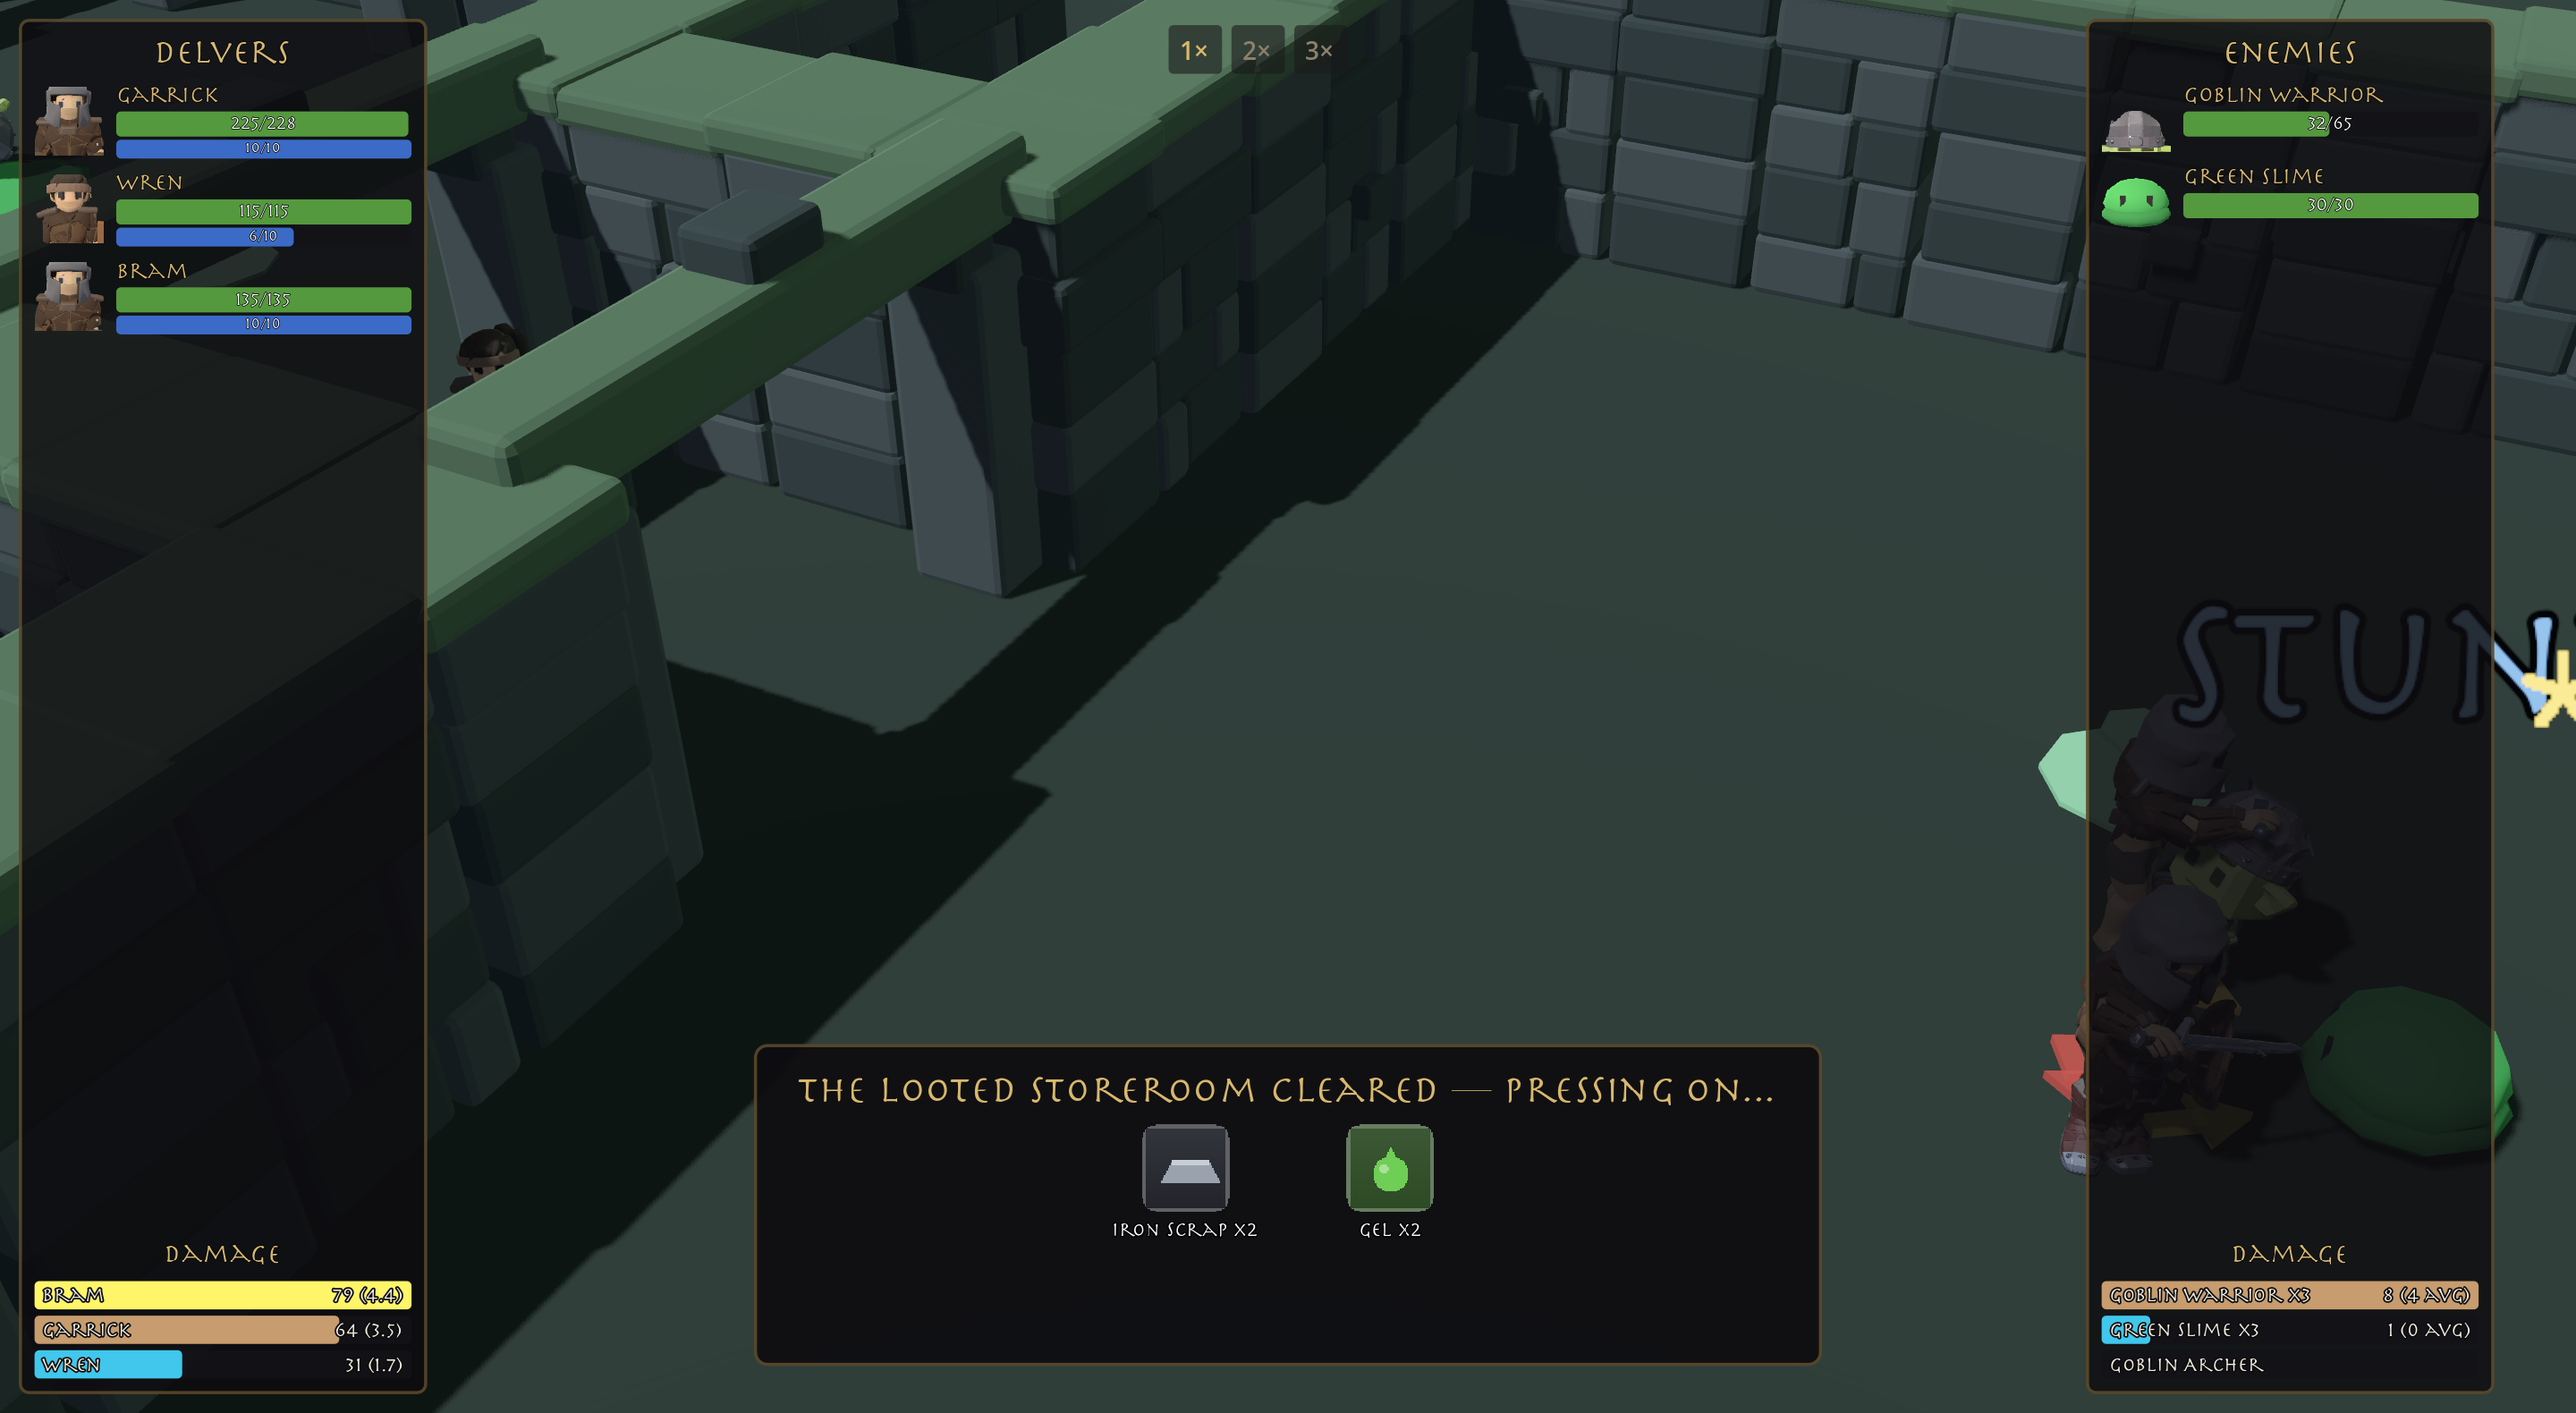
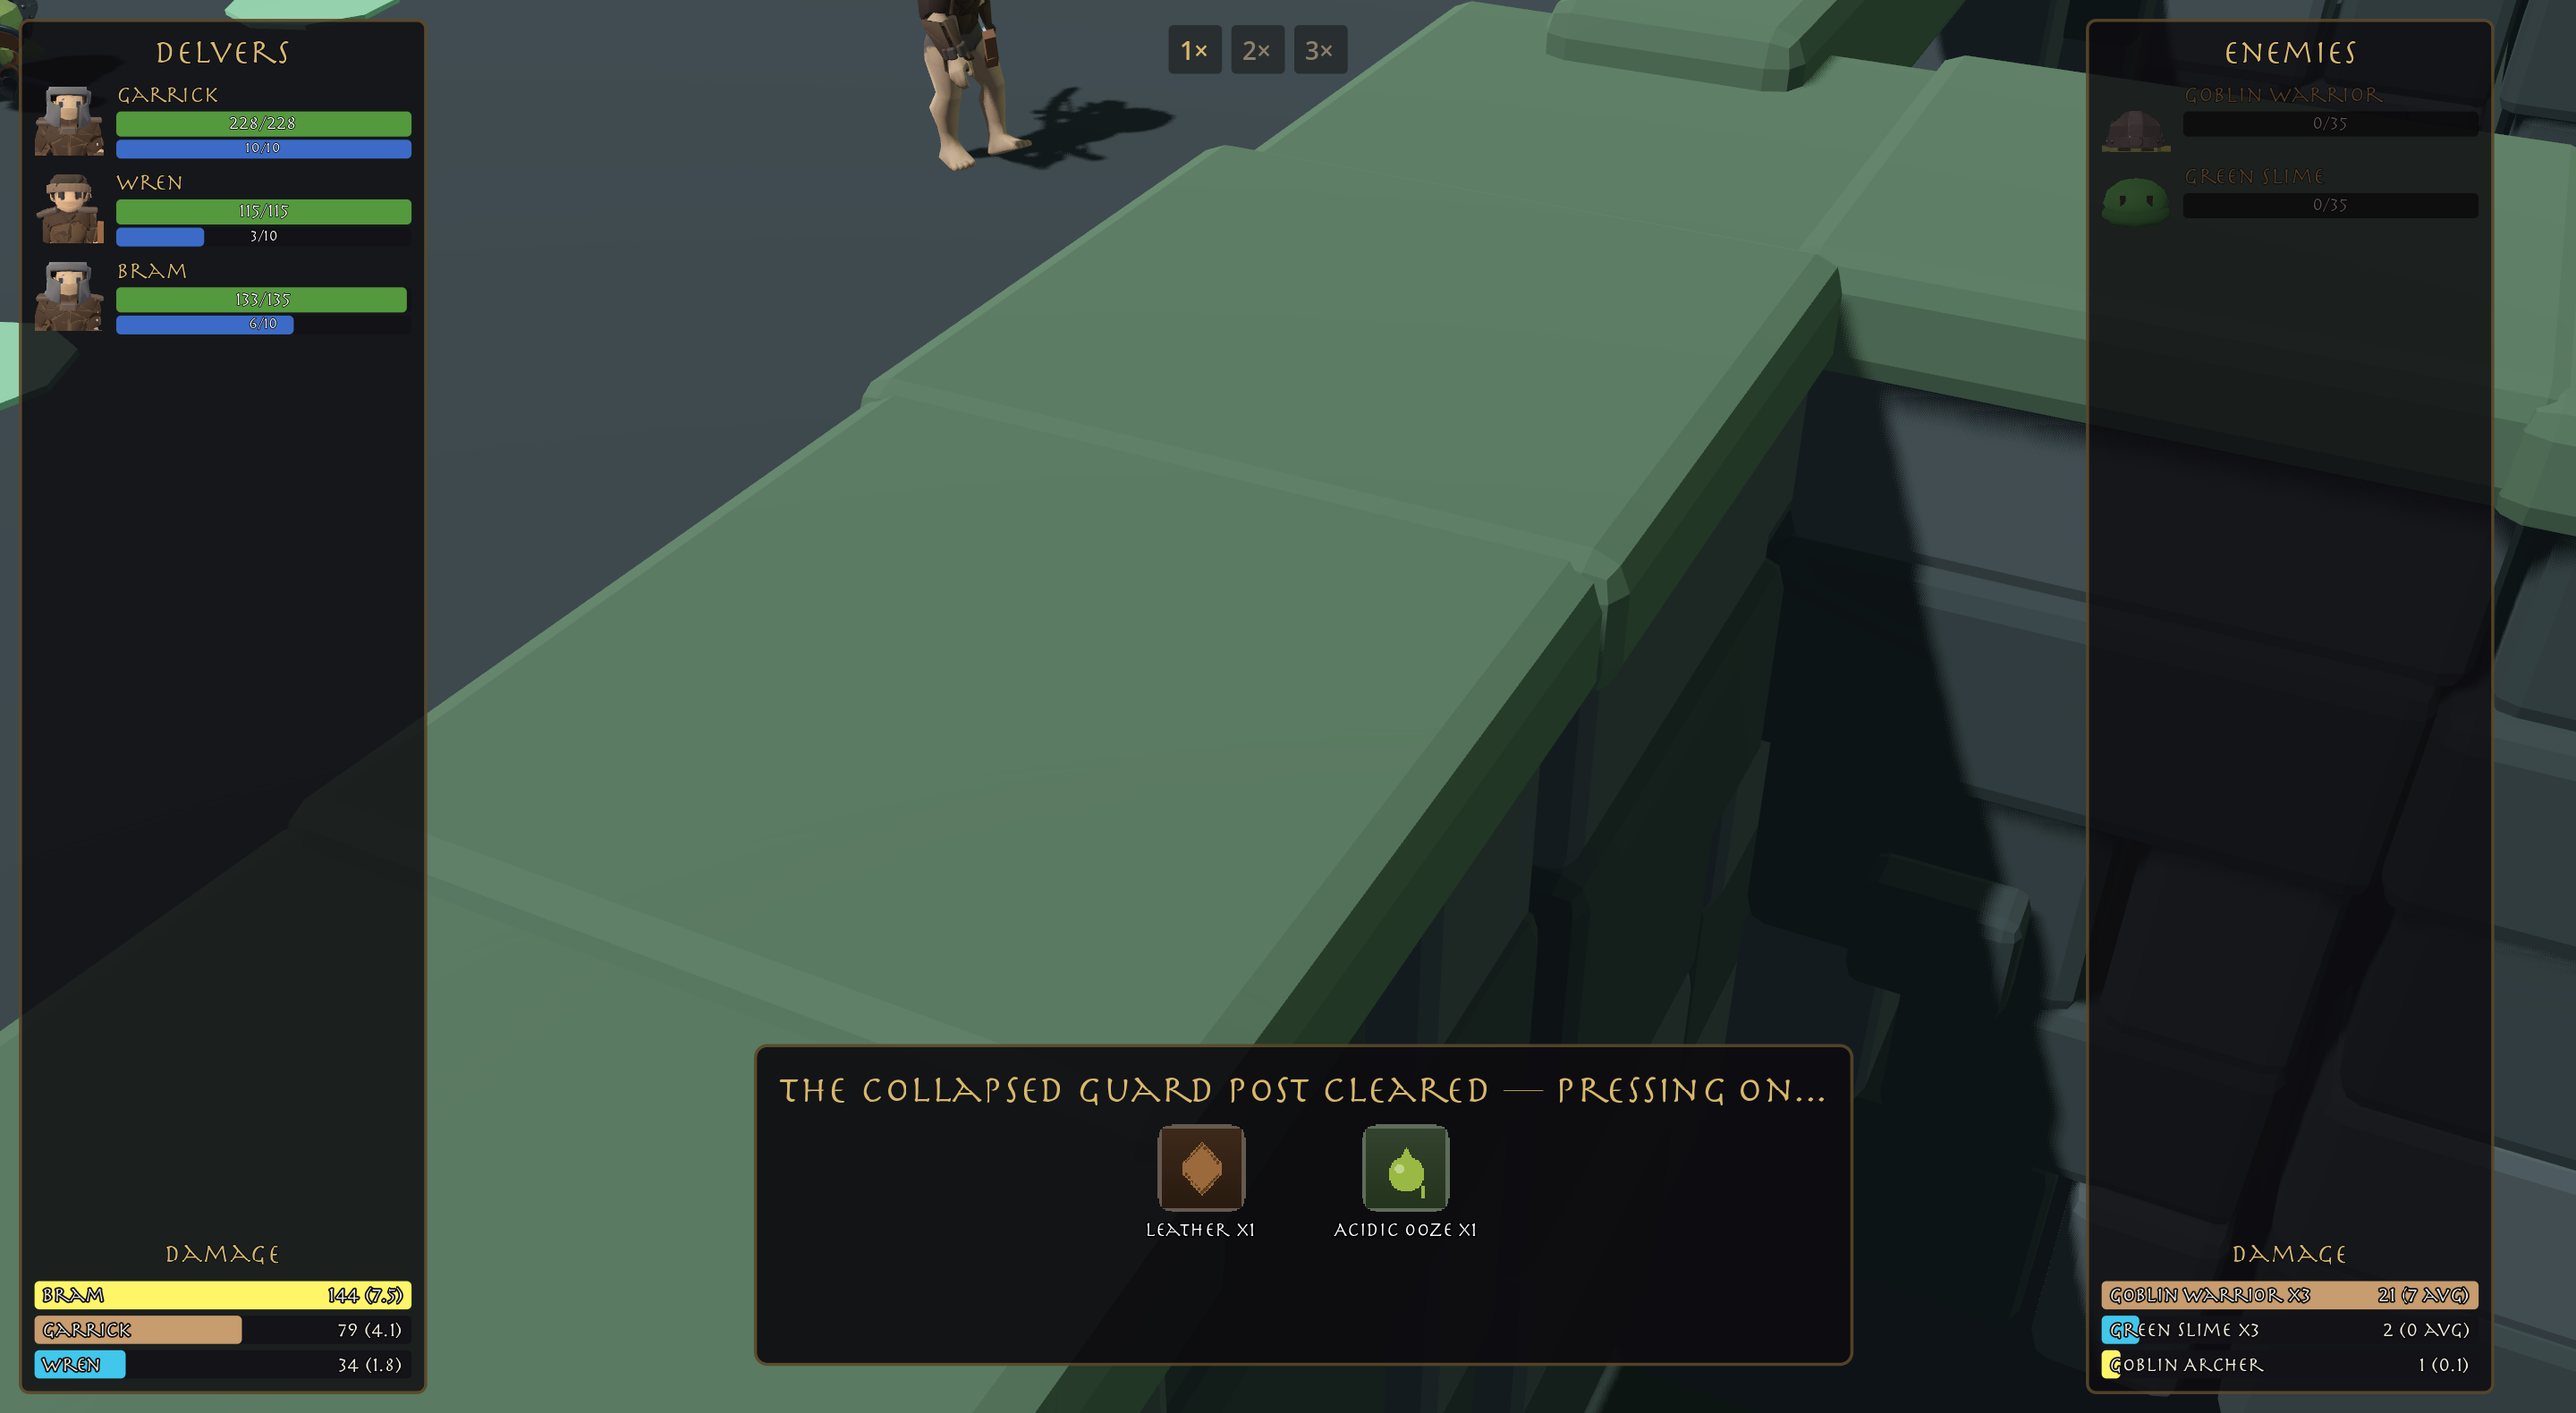
Phase B: the heightfield - the delve descends.
Every tile carries a height now. The entrance stands highest and the
boss lair waits at the bottom; corridors between levels grade into
ramps across their fresh ground (lerping the full route left cliffs
at room mouths - the ramp spans only new tiles). A ledge is a wall
to the pathfinder, and terrain occludes sightlines: ground higher
than both heads hides the far side, so high ground means something
to archers now.

The theater renders the descent as stepped stone underfoot; actors,
props, arches, landmarks and telegraphs all stand on their floor,
and the camera inherits the terrain through the rigs it follows.
test_elevation pins the contracts; an elevated Darkwood terminates
end to end. 47/47 tests.

diff --git a/CHANGELOG.md b/CHANGELOG.md
@@ -2,6 +2,25 @@
 
 Notable changes per pull request. Newest first.
 
+## Phase B — The Heightfield *(open)*
+
+### Added
+- **ELEVATION**: the delve descends - the Broken Gate stands highest
+  and the boss lair waits at the bottom. Every tile carries a height;
+  corridors between levels become RAMPS (graded over their fresh
+  ground so room mouths never cliff); a ledge is a wall to
+  pathfinding; and terrain occludes sightlines - a ridge higher than
+  both heads hides the far side. The theater renders raised ground
+  as stepped stone, and everything - actors, props, arches,
+  landmarks, telegraphs - stands on its floor.
+- **test_elevation** pins the contracts: ledges block, ramps carry,
+  ridges hide, the compiled descent stays walkable end to end, and
+  an elevated Darkwood delve terminates.
+- **Dagger mastery**: a dagger in the main hand trains its own
+  discipline (Hamstring, Find the Gap, Flurry, Red Ribbons) via the
+  new GearDefinition.weapon_family - Bram's rare blade earns its
+  keep. Pairs with Dual Wield.
+
 ## The Continuous Dungeon — Phase A *(open)*
 
 ### Added
